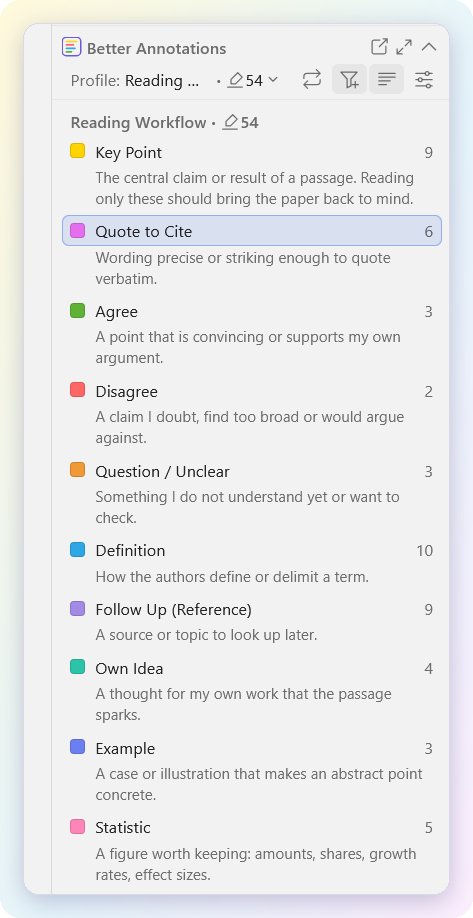
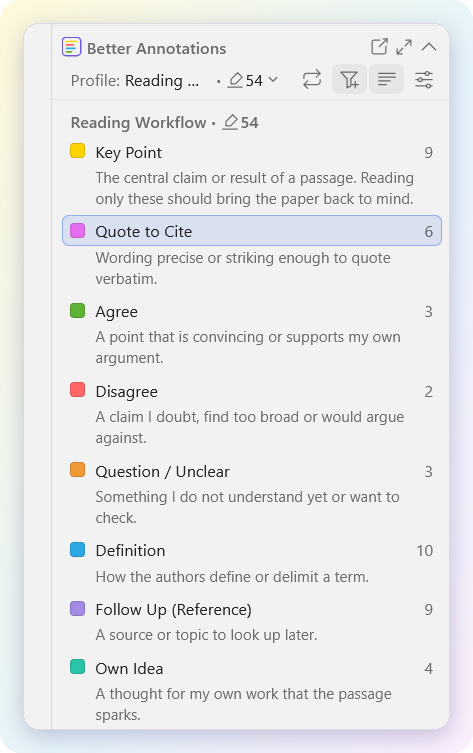
README: feature blocks as tables again, FAQ with headings instead of collapsible items, taller export screenshot, shorter item pane screenshot
Claude-Session: https://claude.ai/code/session_01PkH8egytANsrcUK8ArmkVh

diff --git a/README.md b/README.md
@@ -42,7 +42,9 @@ Zotero offers eight annotation colors without names, so it is easy to forget whi
 
 ## <img src="docs/images/icons/features.svg" width="26" height="26" align="top" alt="">&nbsp;Features
 
-<img src="docs/images/feature-labels.png" align="right" width="380" alt="Context menu of a highlight in Zotero's PDF reader: colors with labels such as Key Point, Quote to Cite and Agree, the submenu More Colors and the entry Customize Annotations">
+<table>
+<tr>
+<td width="54%" valign="middle">
 
 ## 🏷 Labels where you choose a color
 
@@ -54,9 +56,15 @@ The label of a color appears wherever Zotero lets you pick one, so you always se
 >
 > 🔎 **Sidebar filter.** The color filter of the annotation sidebar names the colors as well.
 
-<br clear="all">
+</td>
+<td width="46%" valign="middle"><img src="docs/images/feature-labels.png" width="380" alt="Context menu of a highlight in Zotero's PDF reader: colors with labels such as Key Point, Quote to Cite and Agree, the submenu More Colors and the entry Customize Annotations"></td>
+</tr>
+</table>
 
-<img src="docs/images/feature-itempane.png" align="left" width="380" alt="Section Better Annotations next to a PDF: the profile Reading Workflow with its labels, their descriptions and the number of annotations per label">
+<table>
+<tr>
+<td width="46%" valign="middle"><img src="docs/images/feature-itempane.png" width="380" alt="Section Better Annotations next to a PDF: the profile Reading Workflow with its labels, their descriptions and the number of annotations per label"></td>
+<td width="54%" valign="middle">
 
 ## 📌 A section in the item pane
 
@@ -70,9 +78,13 @@ Next to the reader, a section lists the labels of the document's profile with th
 >
 > 🪟 **Separate window.** The same list in its own window, for example on a second screen.
 
-<br clear="all">
+</td>
+</tr>
+</table>
 
-<img src="docs/images/feature-drag.png" align="right" width="380" alt="The label Follow Up is dragged from the item pane onto a highlight in the PDF, which is outlined while the label hovers over it">
+<table>
+<tr>
+<td width="54%" valign="middle">
 
 ## 🖐 Annotate by drag and drop
 
@@ -86,9 +98,15 @@ Drag a label from the item pane onto a passage. Sorting passages into categories
 >
 > ↩ **Undo as usual.** Ctrl+Z reverts the change in the reader.
 
-<br clear="all">
+</td>
+<td width="46%" valign="middle"><img src="docs/images/feature-drag.png" width="380" alt="The label Follow Up is dragged from the item pane onto a highlight in the PDF, which is outlined while the label hovers over it"></td>
+</tr>
+</table>
 
-<img src="docs/images/feature-toolbar.png" align="left" width="380" alt="Profile button in the reader toolbar with the statistics: annotations per label with colored bars, grouped by the profiles Reading Workflow and Literature Review">
+<table>
+<tr>
+<td width="46%" valign="middle"><img src="docs/images/feature-toolbar.png" width="380" alt="Profile button in the reader toolbar with the statistics: annotations per label with colored bars, grouped by the profiles Reading Workflow and Literature Review"></td>
+<td width="54%" valign="middle">
 
 ## 📊 Reader toolbar and statistics
 
@@ -102,9 +120,13 @@ One button in the reader toolbar shows the profile of the document and how many 
 >
 > ↔ **Tools in the middle.** Zotero's tools stay above the middle of the document, however long the profile name is.
 
-<br clear="all">
+</td>
+</tr>
+</table>
 
-<img src="docs/images/feature-profiles.png" align="right" width="380" alt="Template library in the settings with Zotero+, Literature Review TCCM and ADO and Toulmin's argument analysis, each with its labels">
+<table>
+<tr>
+<td width="54%" valign="middle">
 
 ## 🗂 Profiles and templates
 
@@ -118,9 +140,15 @@ Keep different color schemes for different kinds of work, and start from proven 
 >
 > 🧩 **Coming from another plugin?** Better Annotations offers to take over the labels of other color plugins as a profile.
 
-<br clear="all">
+</td>
+<td width="46%" valign="middle"><img src="docs/images/feature-profiles.png" width="380" alt="Template library in the settings with Zotero+, Literature Review TCCM and ADO and Toulmin's argument analysis, each with its labels"></td>
+</tr>
+</table>
 
-<img src="docs/images/feature-advanced.png" align="left" width="380" alt="Annotations in the reader's sidebar: each shows its profile, such as Reading Workflow or Literature Review TCCM, in its head and its label as a tag">
+<table>
+<tr>
+<td width="46%" valign="middle"><img src="docs/images/feature-advanced.png" width="380" alt="Annotations in the reader's sidebar: each shows its profile, such as Reading Workflow or Literature Review TCCM, in its head and its label as a tag"></td>
+<td width="54%" valign="middle">
 
 ## 🧪 Advanced functions for coding and reviews
 
@@ -134,9 +162,13 @@ Three functions turn your labels into a coding scheme. They are off by default; 
 >
 > 📁 **Rules for collections.** Give all documents of a collection the same scheme.
 
-<br clear="all">
+</td>
+</tr>
+</table>
 
-<img src="docs/images/feature-settings.png" align="right" width="380" alt="Settings of Better Annotations: profile card and the list of colors with labels, descriptions and counters">
+<table>
+<tr>
+<td width="54%" valign="middle">
 
 ## 🎛 Make it yours
 
@@ -150,9 +182,15 @@ Nearly everything can be adjusted, so the plugin fits the way you work.
 >
 > 🌍 **Language.** 11 languages, following Zotero or chosen in the settings.
 
-<br clear="all">
+</td>
+<td width="46%" valign="middle"><img src="docs/images/feature-settings.png" width="380" alt="Settings of Better Annotations: profile card and the list of colors with labels, descriptions and counters"></td>
+</tr>
+</table>
 
-<img src="docs/images/feature-export.png" align="left" width="380" alt="Exported Excel workbook: one row per annotation with colored number and label cells, type, extract, comment and description, and an image annotation">
+<table>
+<tr>
+<td width="46%" valign="middle"><img src="docs/images/feature-export.png" width="380" alt="Exported Excel workbook: one row per annotation with colored number and label cells, type, extract, comment and description, and an image annotation"></td>
+<td width="54%" valign="middle">
 
 ## 📤 Export
 
@@ -166,7 +204,9 @@ Export the annotations of a document, a collection or a library with one row per
 >
 > 🧭 **Your selection.** Choose the area, the order, the profile and the columns.
 
-<br clear="all">
+</td>
+</tr>
+</table>
 
 ## ✨ More functions
 
@@ -205,109 +245,67 @@ To give documents their own schemes, turn on **Profile per Document** under **Ad
 
 ## <img src="docs/images/icons/faq.svg" width="26" height="26" align="top" alt="">&nbsp;Frequently asked questions
 
-**Labels and colors**
+### 🏷 Labels and colors
 
-<details>
-<summary><b>How do I rename or label the highlight colors in Zotero?</b></summary>
-<br>
+#### How do I rename or label the highlight colors in Zotero?
 
 Zotero itself does not offer this. Open the settings of Better Annotations and type a label next to each color. The labels then appear in the reader's menus, in the selection popup, in the sidebar filter and in the item pane section.
-</details>
 
-<details>
-<summary><b>How do I get more colors or my own colors?</b></summary>
-<br>
+#### How do I get more colors or my own colors?
 
 Click **Add Color** and choose any color with the color picker, from a palette or by hex code. There is no fixed limit. Colors beyond the first eight appear in a submenu of the context menu and in further rows of the selection popup. Colors you do not need right now can be hidden.
-</details>
 
-<details>
-<summary><b>Another plugin for annotation colors is installed. What should I do?</b></summary>
-<br>
+#### Another plugin for annotation colors is installed. What should I do?
 
 Highlight Color Descriptions, Annotation Color Customizer and Just Enough Color change the same menus, so labels can appear twice or wrong. The settings of Better Annotations show a notice while one of them is active and offer to take over its labels as a profile. Then disable the other plugin under **Tools → Plugins**.
-</details>
 
-**Profiles and advanced functions**
+### 🗂 Profiles and advanced functions
 
-<details>
-<summary><b>What is the difference between the active profile and “Profile per Document”?</b></summary>
-<br>
+#### What is the difference between the active profile and “Profile per Document”?
 
 Without “Profile per Document”, one profile applies to all documents. Switching it changes the labels everywhere. With the function turned on, every document keeps its own profile: the one you last chose in it, otherwise the profile of most of its annotations, a rule for its collection or the default profile.
-</details>
 
-<details>
-<summary><b>What are the tags “ZBA: …” on my annotations?</b></summary>
-<br>
+#### What are the tags “ZBA: …” on my annotations?
 
 With “Profile per Document”, each new annotation gets a profile tag such as “ZBA: Literature Review”. It records which scheme the annotation belongs to, so the same color can mean different things in different profiles, and it syncs with your library. The reader hides the tag in the annotation and shows the profile name in its head instead. Turning the function off asks whether the tags stay; renaming or deleting a profile updates them.
-</details>
 
-<details>
-<summary><b>Why does an annotation count as “Standard” or “No profile”?</b></summary>
-<br>
+#### Why does an annotation count as “Standard” or “No profile”?
 
 With “Profile per Document”, only the profile tag puts an annotation into a profile. Annotations without a tag count as “Standard” if they have one of Zotero's eight colors, otherwise as “No profile”. **Assign** in the item pane gives them the tag of the document's profile.
-</details>
 
-<details>
-<summary><b>Can I use the plugin for coding, qualitative analysis or a literature review?</b></summary>
-<br>
+#### Can I use the plugin for coding, qualitative analysis or a literature review?
 
 Yes. A label can stand for any category, including a code; descriptions hold the definition of each code; labels as tags make coded passages searchable across the library; a profile per document lets several schemes live side by side; and the export lists all annotations with their labels, like a list of coded segments. The template library has schemes for reviews and analysis. Better Annotations does not replace software such as MAXQDA or NVivo: it has no code hierarchy, memos or intercoder agreement. Its exports can be processed further in other software.
-</details>
 
-<details>
-<summary><b>How can my team use the same labels in a group library?</b></summary>
-<br>
+#### How can my team use the same labels in a group library?
 
 Profiles are stored on each computer. Export your profile and let colleagues import it. Tags (labels as tags, profile tags) are part of the group library, so every member sees them.
-</details>
 
-**Backup, sync and export**
+### 💾 Backup, sync and export
 
-<details>
-<summary><b>Does the plugin change my existing annotations?</b></summary>
-<br>
+#### Does the plugin change my existing annotations?
 
 Only when you ask it to, for example when you recolor annotations, add tags or assign profiles. It asks first, records the change in the history and can undo it. On first start it saves the colors of all annotations.
-</details>
 
-<details>
-<summary><b>How do I undo a change or go back to the state before installation?</b></summary>
-<br>
+#### How do I undo a change or go back to the state before installation?
 
 Under **Library → History**, **Undo…** reverts a single change. Under **Library → Backups**, **Restore…** sets the colors back to a backup, for example the one “before installation”, and removes the plugin's tags. Annotations created later and your own tags stay unchanged.
-</details>
 
-<details>
-<summary><b>Are my profiles synced between computers?</b></summary>
-<br>
+#### Are my profiles synced between computers?
 
 Not by Zotero sync. Annotations and their tags sync as usual, but profiles and settings stay on the computer. Use **Create Full Backup…** on one computer and **Load Full Backup…** on the other, or export single profiles.
-</details>
 
-<details>
-<summary><b>How do I export annotations to Excel or CSV, or group them by color?</b></summary>
-<br>
+#### How do I export annotations to Excel or CSV, or group them by color?
 
 Open the **Export** tab, choose the area, the format and the order. Each annotation becomes one row with label, text or image, comment, tags, page, source and a link back to Zotero. Ordered by label, the Excel file can be filtered by label and the HTML report groups all annotations under their labels.
-</details>
 
-<details>
-<summary><b>What happens when I uninstall the plugin?</b></summary>
-<br>
+#### What happens when I uninstall the plugin?
 
 Your annotations keep their colors, and tags stay on them. Remove plugin tags first with **Remove Plugin Tags…** if you do not want to keep them. The folder `better-annotations` in your Zotero data directory stays, so a later installation finds your profiles again.
-</details>
 
-<details>
-<summary><b>Does the plugin send data anywhere?</b></summary>
-<br>
+#### Does the plugin send data anywhere?
 
 No. The only network access is Zotero's own update check.
-</details>
 
 <a name="compatibility"></a>
 
